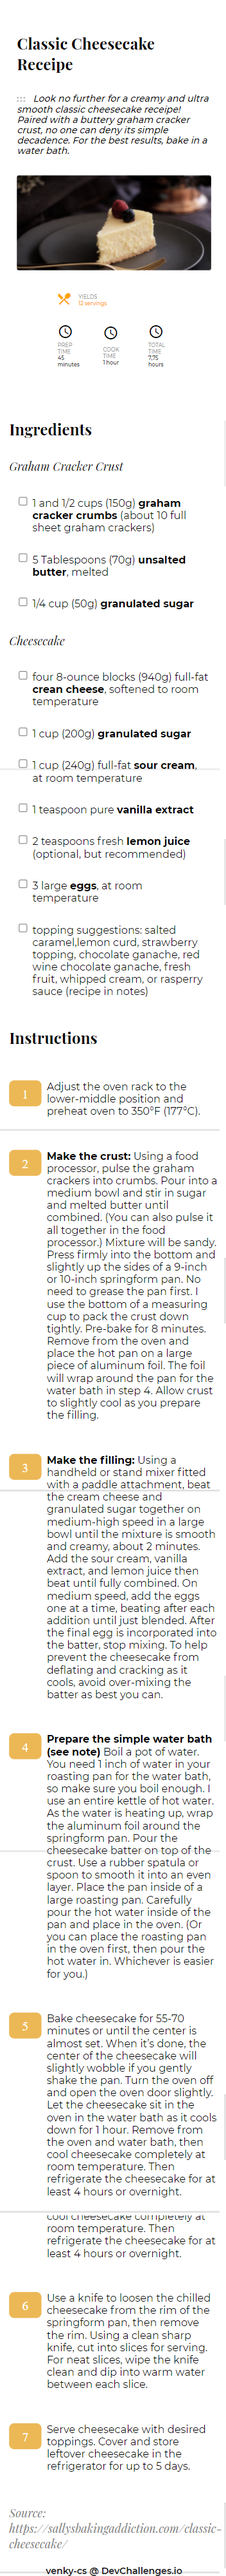
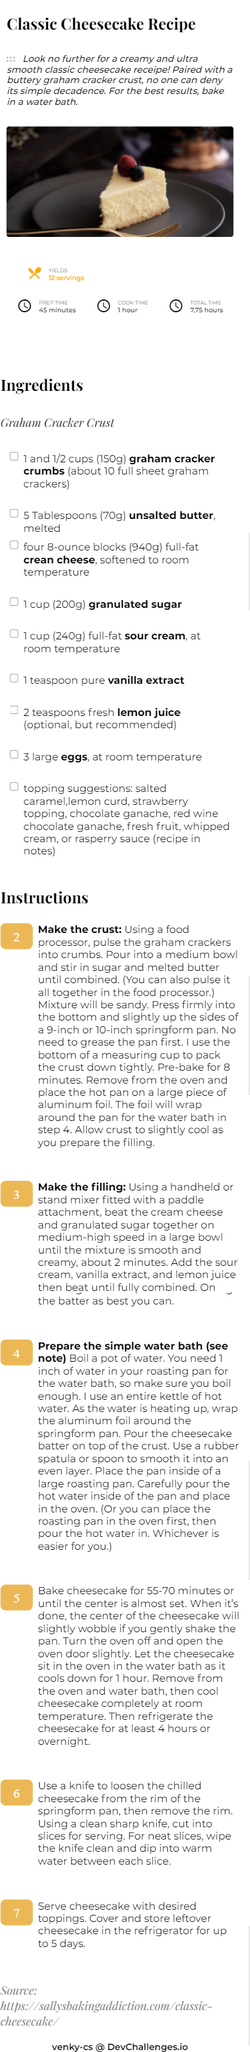
'update-images'

Changed region(s): [[0.0, 0.0, 0.9688, 1.0], [0.9688, 0.8077, 1.0, 0.8387]]

diff --git a/index.html b/index.html
@@ -14,7 +14,7 @@
     <div class="container">
         <div class="header">
             <div class="title">
-                <h1>Classic Cheesecake Receipe</h1>
+                <h1>Classic Cheesecake Recipe</h1>
             </div>
             <div class="sub">
                 <p> <span><img src="./images/6dots.svg" alt=""></span> Look no further for a creamy and ultra smooth

diff --git a/style.css b/style.css
@@ -52,7 +52,7 @@ p{
     width: 30%;
 }
 .right .card{
-    width: 70%;
+    width: 85%;
     margin: auto;
     box-shadow: 0 0 20px rgba(0,0,0,.1);
     border-radius:12px;
